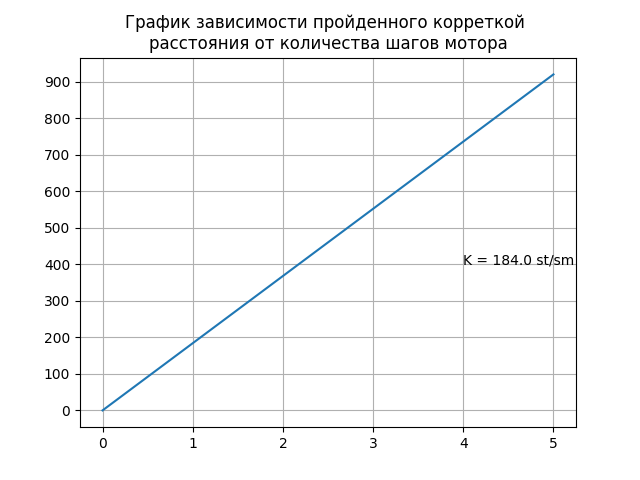
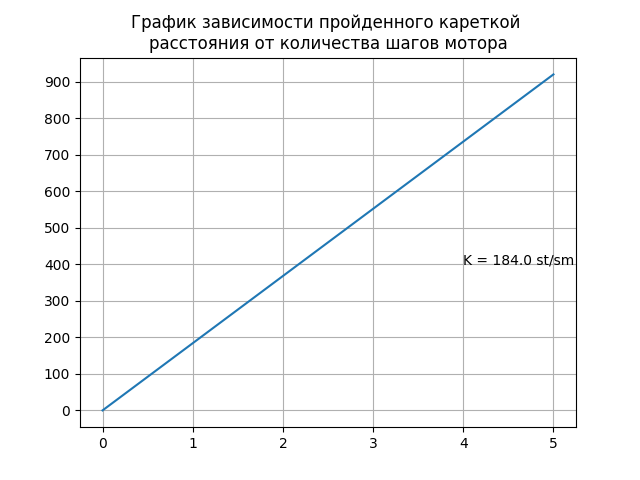
correct plot's name

Changed region(s): [[0.1875, 0.0312, 0.8438, 0.0625]]

diff --git a/Torrent/scripts/calibrationMotor.py b/Torrent/scripts/calibrationMotor.py
@@ -16,5 +16,5 @@ with open("data\\calibration\\calibration.txt") as fl:
     ax.plot([0, length_sm], [0, length_steps])
     ax.grid(True)
     ax.text(4,400, f"K = {K} st/sm")
-    plt.title("График зависимости пройденного корреткой \nрасстояния от количества шагов мотора")
+    plt.title("График зависимости пройденного кареткой \nрасстояния от количества шагов мотора")
     plt.show()
